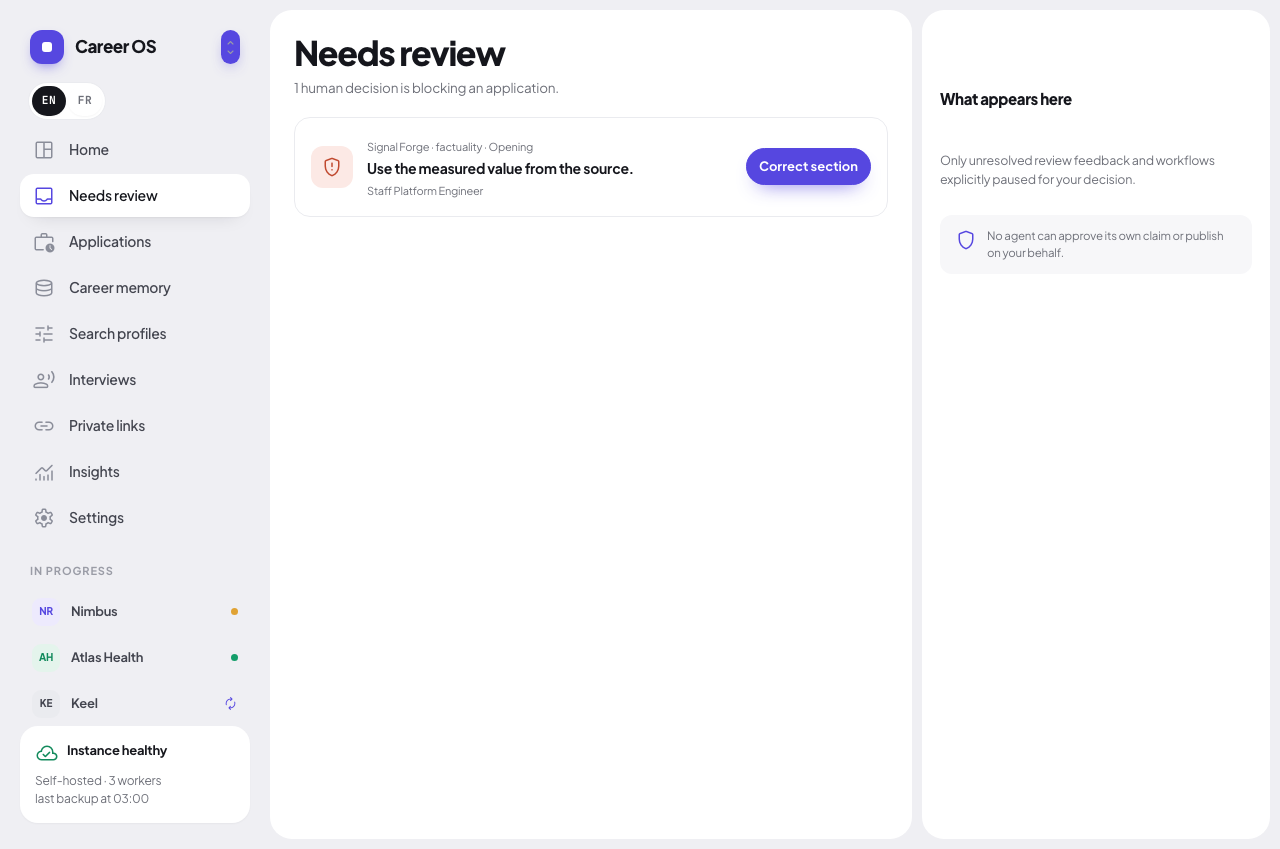
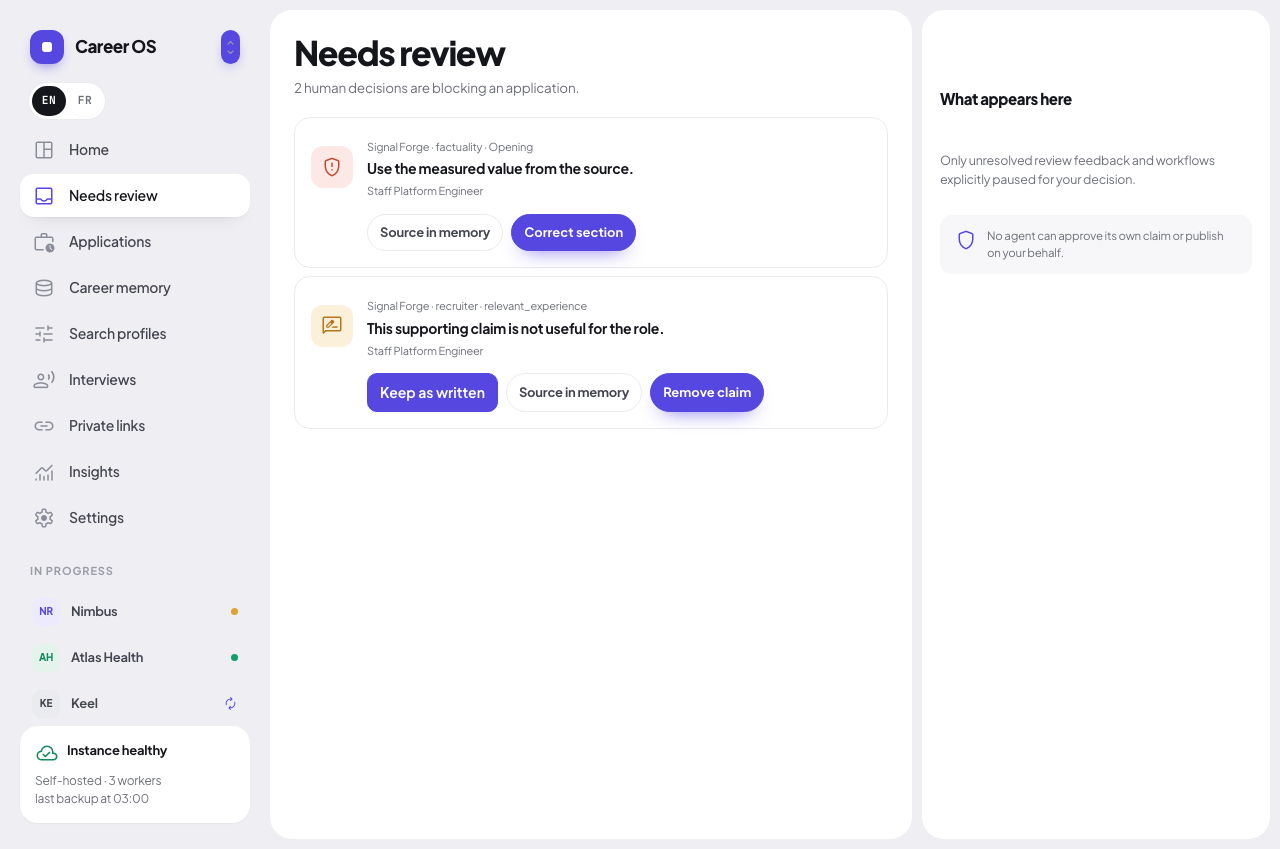
feat: complete contextual review actions

diff --git a/components/applications/application-review-checkpoint.tsx b/components/applications/application-review-checkpoint.tsx
@@ -1,5 +1,6 @@
 'use client';
 
+import Link from 'next/link';
 import { useI18n, useLocalizer } from '@/components/i18n/i18n-provider';
 import { dossierMessages } from '@/lib/i18n/dictionaries/dossier';
 import type { PersistedRun } from '@/lib/run-contract';
@@ -7,11 +8,13 @@ import type { PersistedRun } from '@/lib/run-contract';
 export type ReviewDecision = 'keep' | 'correct';
 
 export function ApplicationReviewIssueActions({
+  issue,
   issueIndex,
   onDecide,
   pending,
   review,
 }: {
+  issue: PersistedRun['reviews'][number]['issues'][number];
   issueIndex: number;
   onDecide: (
     reviewId: string,
@@ -23,6 +26,7 @@ export function ApplicationReviewIssueActions({
 }) {
   const { locale } = useI18n();
   const key = `${review.reviewId}:${issueIndex}`;
+  const removesClaim = issue.section === 'relevant_experience';
   return (
     <div className="co-review-actions">
       {review.reviewer !== 'factuality' ? (
@@ -34,6 +38,12 @@ export function ApplicationReviewIssueActions({
           {locale === 'en' ? 'Keep as written' : 'Garder tel quel'}
         </button>
       ) : null}
+      <Link
+        className="co-button quiet"
+        href={issue.claimId ? `/memory#claim-${issue.claimId}` : '/memory'}
+      >
+        {locale === 'en' ? 'Source in memory' : 'Sourcer dans la mémoire'}
+      </Link>
       <button
         className="co-button"
         disabled={Boolean(pending)}
@@ -44,9 +54,13 @@ export function ApplicationReviewIssueActions({
           ? locale === 'en'
             ? 'Correcting…'
             : 'Correction…'
-          : locale === 'en'
-            ? 'Correct section'
-            : 'Corriger la section'}
+          : removesClaim
+            ? locale === 'en'
+              ? 'Remove claim'
+              : 'Supprimer l’affirmation'
+            : locale === 'en'
+              ? 'Correct section'
+              : 'Corriger la section'}
       </button>
     </div>
   );
@@ -139,6 +153,7 @@ export function ApplicationReviewCheckpoint({
                       </strong>
                     ) : (
                       <ApplicationReviewIssueActions
+                        issue={issue}
                         issueIndex={index}
                         onDecide={onDecide}
                         pending={pending}

diff --git a/tests/e2e/i18n.spec.ts b/tests/e2e/i18n.spec.ts
@@ -301,7 +301,27 @@ test('shows only persisted human decisions in the review queue', async ({
   page,
 }) => {
   await context.clearCookies();
-  await mockPersistedWorkspace(page, pendingReviewRun);
+  const run = {
+    ...pendingReviewRun,
+    reviews: [
+      ...pendingReviewRun.reviews,
+      {
+        reviewId: '988c0a00-0000-4000-8000-000000000047',
+        reviewer: 'recruiter',
+        passed: false,
+        findings: ['Remove the weaker supporting claim.'],
+        issues: [
+          {
+            section: 'relevant_experience',
+            message: 'This supporting claim is not useful for the role.',
+            blocking: false,
+            claimId: '988c0a00-0000-4000-8000-000000000048',
+          },
+        ],
+      },
+    ],
+  } as const;
+  await mockPersistedWorkspace(page, run);
   await page.goto('/inbox');
 
   await expect(
@@ -317,7 +337,26 @@ test('shows only persisted human decisions in the review queue', async ({
     page.getByRole('button', { name: 'Correct section' }),
   ).toBeVisible();
   await expect(
+    page.getByRole('link', { name: 'Source in memory' }),
+  ).toHaveCount(2);
+  await expect(
+    page.getByRole('link', { name: 'Source in memory' }).nth(1),
+  ).toHaveAttribute(
+    'href',
+    '/memory#claim-988c0a00-0000-4000-8000-000000000048',
+  );
+  await expect(
+    page.getByRole('button', { name: 'Remove claim' }),
+  ).toBeVisible();
+  await expect(
     page.getByRole('button', { name: 'Keep as written' }),
+  ).toBeVisible();
+  await expect(
+    page
+      .locator('.co-inbox-list > article', {
+        hasText: 'Use the measured value from the source.',
+      })
+      .getByRole('button', { name: 'Keep as written' }),
   ).toHaveCount(0);
   await expect(page.getByText('Nimbus Robotics')).toHaveCount(0);
   if (process.env.CAREER_OS_INBOX_SCREENSHOT)

diff --git a/app/globals.css b/app/globals.css
@@ -6796,7 +6796,7 @@
 
 .co-inbox-list > article {
   display: grid;
-  grid-template-columns: 42px minmax(0, 1fr) auto;
+  grid-template-columns: 42px minmax(0, 1fr);
   gap: 14px;
   align-items: center;
   padding: 16px;
@@ -6844,8 +6844,14 @@
 .co-review-actions {
   display: flex;
   flex-wrap: wrap;
+  grid-column: 2;
   gap: 8px;
-  justify-content: flex-end;
+  justify-content: flex-start;
+}
+
+.co-inbox-list > article > .co-button {
+  grid-column: 2;
+  justify-self: start;
 }
 
 .co-review-actions > button,

diff --git a/components/kit-route-page.tsx b/components/kit-route-page.tsx
@@ -4895,6 +4895,7 @@ function InboxScreen() {
               <p>{decision.application.role}</p>
             </div>
             <ApplicationReviewIssueActions
+              issue={issue}
               issueIndex={issueIndex}
               onDecide={(reviewId, targetIssueIndex, reviewDecision) =>
                 void decide(

diff --git a/components/memory/career-memory-content.tsx b/components/memory/career-memory-content.tsx
@@ -321,6 +321,7 @@ export function CareerMemoryContent() {
                 return (
                   <article
                     className={claim.level === 'unsupported' ? 'unsourced' : ''}
+                    id={`claim-${claim.id}`}
                     key={claim.id}
                   >
                     <span

diff --git a/docs/PRODUCT-REFERENCE.md b/docs/PRODUCT-REFERENCE.md
@@ -613,7 +613,7 @@ Critères d'acceptation :
 - [x] Reviews recruteur, hiring manager et factuelle.
 - [x] Nombre de corrections automatiques borné.
 - [x] Relance ciblée d'une section sans régénérer toute la candidature.
-- [ ] File de décisions humaines avec conserver, corriger, sourcer ou supprimer.
+- [x] File de décisions humaines avec conserver, corriger, sourcer ou supprimer.
 - [x] Blocage de publication tant qu'une objection factuelle subsiste.
 
 Critères d'acceptation :
